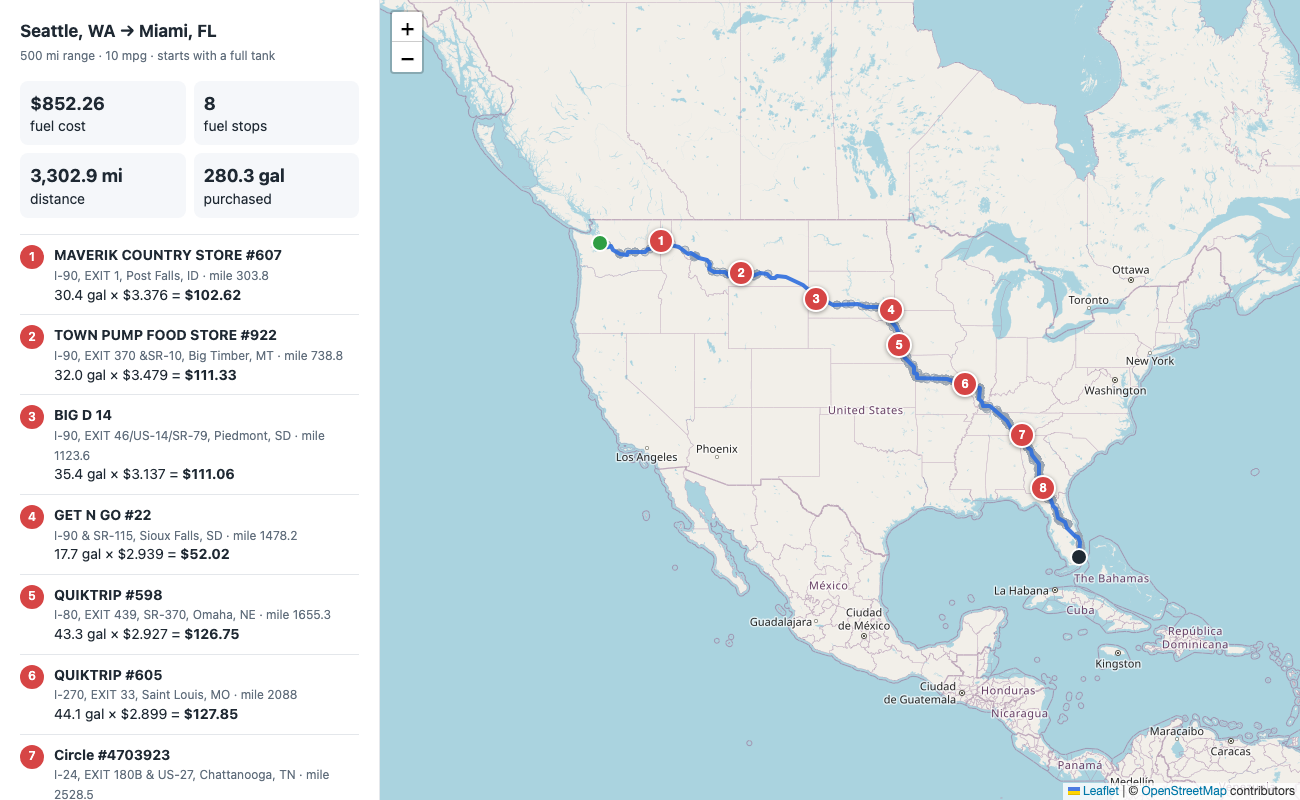
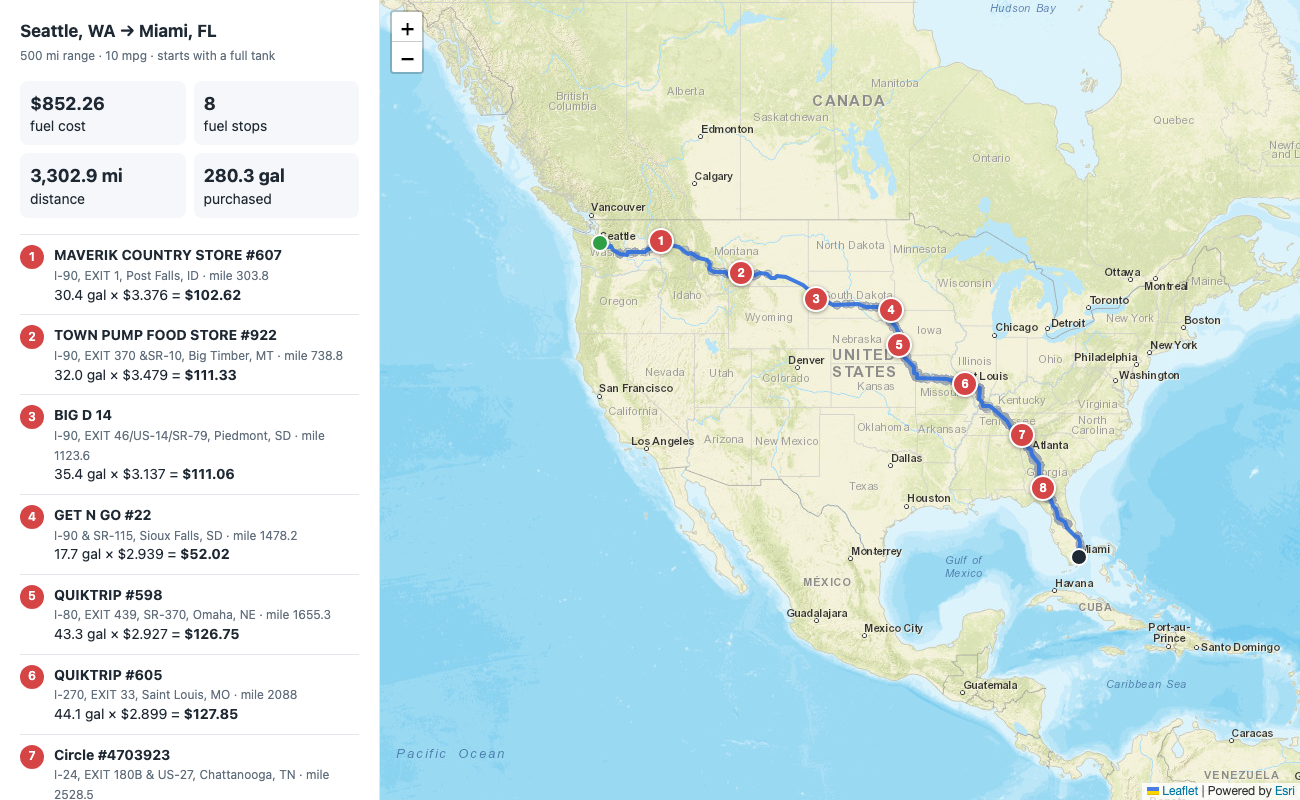
Use Esri basemap tiles so the map loads inside Postman
OpenStreetMap's tile servers reject requests from Postman's Visualize tab. Esri's World Street Map tiles are keyless and load in both the visualizer and the browser map page.

diff --git a/fuel_route/templates/fuel_route/map.html b/fuel_route/templates/fuel_route/map.html
@@ -57,8 +57,10 @@
       <p class="muted">Grey dots: ${s.stations_considered} stations within ${plan.assumptions.station_corridor_miles} mi of the route.</p>`;
 
     const map = L.map("map", { preferCanvas: true });
-    L.tileLayer("https://tile.openstreetmap.org/{z}/{x}/{y}.png", {
-      maxZoom: 18, attribution: '&copy; <a href="https://www.openstreetmap.org/copyright">OpenStreetMap</a> contributors',
+    // Esri basemap: keyless, and unlike tile.openstreetmap.org it also loads
+    // inside embedded viewers such as Postman's Visualize tab.
+    L.tileLayer("https://server.arcgisonline.com/ArcGIS/rest/services/World_Street_Map/MapServer/tile/{z}/{y}/{x}", {
+      maxZoom: 18, attribution: 'Powered by <a href="https://www.esri.com">Esri</a>',
     }).addTo(map);
 
     // Candidate stations first so the route line is drawn on top of them.

diff --git a/README.md b/README.md
@@ -96,7 +96,7 @@ Example response (Houston, TX → Denver, CO; route coordinates trimmed):
 
 ### `GET /api/route/map/?start=…&finish=…`
 
-An HTML page that draws the route with Leaflet and OpenStreetMap tiles, showing the numbered fuel stops, every candidate station along the corridor, and a cost breakdown. It reads the cached route, so opening it right after the API call costs no extra API calls.
+An HTML page that draws the route with Leaflet on Esri street-map tiles, showing the numbered fuel stops, every candidate station along the corridor, and a cost breakdown. It reads the cached route, so opening it right after the API call costs no extra API calls.
 
 ## How it works
 
